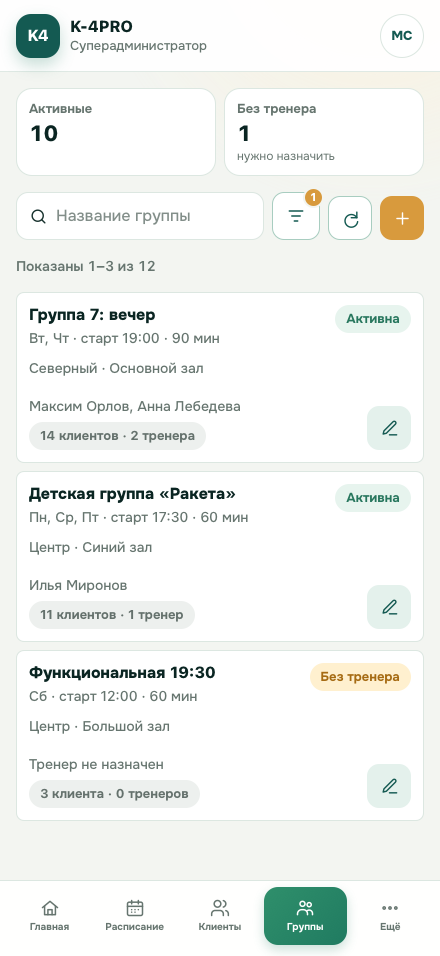
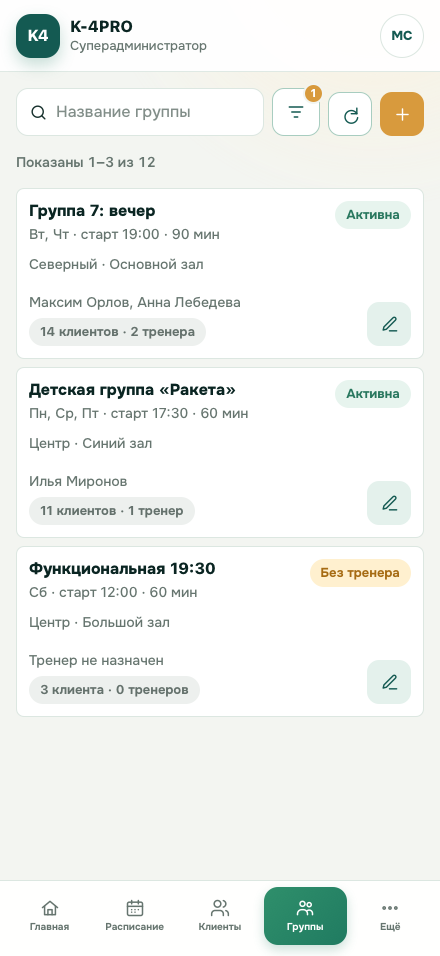
уточнение макетов

diff --git a/docs/ui-concept/index.html b/docs/ui-concept/index.html
@@ -388,12 +388,34 @@
       grid-template-columns: minmax(170px, 1.1fr) minmax(160px, .9fr) minmax(160px, .9fr) minmax(190px, 1fr) auto;
     }
 
+    .filter-bar.groups {
+      grid-template-columns: minmax(220px, 1.3fr) repeat(3, minmax(130px, .7fr)) auto;
+    }
+
+    .filter-actions {
+      display: flex;
+      justify-content: flex-end;
+      gap: 10px;
+    }
+
     .field label {
       display: block;
       margin: 0 0 5px;
       color: var(--text);
       font-size: 12px;
       font-weight: 850;
+    }
+
+    .sr-only {
+      position: absolute !important;
+      width: 1px !important;
+      height: 1px !important;
+      padding: 0 !important;
+      margin: -1px !important;
+      overflow: hidden !important;
+      clip: rect(0, 0, 0, 0) !important;
+      white-space: nowrap !important;
+      border: 0 !important;
     }
 
     .input {
@@ -662,6 +684,7 @@
       .summary-strip,
       .filter-bar,
       .filter-bar.audit,
+      .filter-bar.groups,
       .clients-layout,
       .entity-row,
       .entity-row.roster,
@@ -857,31 +880,18 @@
       <section class="mock-section" id="groups">
         <div class="mock-label">
           <h2>Группы</h2>
-          <span>Registry вместо вертикальных metric cards</span>
+          <span>Компактный registry без summary widgets</span>
         </div>
         <div class="screen">
           <div class="screen-body">
-            <section class="intro">
-              <div>
-                <div class="eyebrows"><span class="chip">Группы и расписание</span></div>
-                <h3>Группы и назначение тренеров</h3>
-                <p>Расписание, состав тренеров, загрузка группы и быстрый переход к редактированию.</p>
-              </div>
-              <div class="actions"><span class="button">Обновить</span><span class="button accent">Создать группу</span></div>
-            </section>
-            <div class="summary-strip">
-              <div class="stat-card"><div class="label">Всего</div><div class="value">12</div><div class="hint">групп</div></div>
-              <div class="stat-card"><div class="label">Активные</div><div class="value">10</div><div class="hint">в расписании</div></div>
-              <div class="stat-card"><div class="label">Без тренера</div><div class="value">1</div><div class="hint">назначить</div></div>
-              <div class="stat-card"><div class="label">Перегружены</div><div class="value">2</div><div class="hint">16+ клиентов</div></div>
-            </div>
+            <h1 class="sr-only">Группы</h1>
             <section class="surface">
-              <div class="filter-bar">
-                <div class="field"><label>Поиск</label><div class="input">Название группы</div></div>
+              <div class="filter-bar groups">
+                <div class="field"><label class="sr-only">Найти группу</label><div class="input">Название группы</div></div>
                 <div class="field"><label>Статус</label><div class="input">Активные</div></div>
                 <div class="field"><label>Тренер</label><div class="input">Все тренеры</div></div>
                 <div class="field"><label>День</label><div class="input">Любой</div></div>
-                <span class="button">Сбросить</span>
+                <div class="filter-actions"><button class="button" type="button">Обновить</button><button class="button accent" type="button">Создать группу</button></div>
               </div>
               <div class="row-list">
                 <div class="entity-row">

diff --git a/docs/ui-concept/task-090-iphone-17-pro-max/app.js b/docs/ui-concept/task-090-iphone-17-pro-max/app.js
@@ -562,7 +562,6 @@ const scenes = {
 
   'groups-list': () => shell(
     `<h1 class="sr-only">Группы</h1>
-    <div class="metrics">${metric('Активные', '10')}${metric('Без тренера', '1', 'нужно назначить')}</div>
     ${locator({
       placeholder: 'Название группы',
       count: 1,

diff --git a/backlog/tasks-ready/TASK-090-shared-mobile-ui-system.md b/backlog/tasks-ready/TASK-090-shared-mobile-ui-system.md
@@ -240,6 +240,12 @@ Theme может менять brand/action/nav/accent presentation, но не:
       первый рабочий control поднимается на освободившееся место.
 - [ ] Refresh/create actions перенесены в первый task toolbar без overflow;
       primary/frequent operations остаются видимыми и имеют accessible names.
+- [ ] `Группы` не показывают summary/stat widgets (`Всего`, `Активные`,
+      `Без тренера`, `Перегружены`) на mobile, tablet или desktop; первым
+      рабочим блоком является locator/filter toolbar.
+- [ ] Количество и проблемный статус групп передаются через range/status,
+      фильтры и соответствующие строки, а ширины `768`/`1440` не возвращают
+      удалённые widgets.
 - [ ] Detail/create/edit/auth и mobile routes внутри `Ещё` сохраняют visible
       title, если navigation не называет задачу однозначно; recovery state с
       конкретным state heading не дублирует route title.
@@ -269,6 +275,9 @@ Theme может менять brand/action/nav/accent presentation, но не:
 - [ ] `clients-browse`, `groups-list`, `schedule-ready` имеют visually-hidden
       level-one heading и не имеют дублирующего visible route title;
       `users-list`/`audit-list` сохраняют title на mobile при active `Ещё`.
+- [ ] `groups-list` не содержит summary/stat widget container на `390 x 844`,
+      `420 x 912`, `440 x 956`, `768 x 1024` и `1440 x 1200`; locator и
+      первые results поднимаются на освободившееся место.
 - [ ] `system-error-state`, `system-empty-first-run` и
       `system-empty-filtered` не дублируют `Клиенты`, когда active client nav и
       конкретный state heading уже дают полный контекст.

diff --git a/docs/ui-concept/README.md b/docs/ui-concept/README.md
@@ -127,14 +127,15 @@ List/table + preview rail на desktop
 
 ### Группы
 
-Заменить вертикальные metric cards на compact summary strip и добавить registry-фильтры.
+Использовать компактный registry без верхних metric/summary widgets. Состояние
+группы показывается в фильтрах и непосредственно в строке, где оно влияет на
+следующее действие.
 
 Структура:
 
 ```text
-Intro: Группы + Создать группу + refresh
-Summary strip: всего | активные | без тренера | перегруженные
-Filter bar: search | status | trainer
+Filter bar: search | status | trainer | day | refresh | create
+Range/status
 Rows: группа | расписание | тренеры | клиенты | статус | edit
 ```
 

diff --git a/.agents/skills/crm-mobile-first-ui/references/mobile-acceptance.md b/.agents/skills/crm-mobile-first-ui/references/mobile-acceptance.md
@@ -69,6 +69,11 @@ visual viewport.
   the first visible row is a locator, summary, filters, or task content.
 - Actions formerly owned by the hidden header remain visible in the first task
   toolbar when primary/frequent and retain accessible names.
+- Registry screens do not gain aggregate summary/stat widgets solely to fill
+  space; every retained widget changes a current decision and cannot be shown
+  more directly in locator, filter, range/status, or entity rows.
+- The Groups registry has no top summary/stat widgets at mobile, tablet, or
+  desktop widths; locator/filter toolbar and results use the released space.
 - Detail/create/edit/auth screens and routes under a generic `More`
   destination keep a visible title when navigation does not name the task;
   recovery states with specific headings do not duplicate an active route name.

diff --git a/.agents/skills/crm-mobile-first-ui/SKILL.md b/.agents/skills/crm-mobile-first-ui/SKILL.md
@@ -92,6 +92,10 @@ Rules:
   semantics;
 - move actions from a hidden list header into the first locator/toolbar/summary
   row without leaving a spacer or hiding primary/frequent operations;
+- do not add aggregate summary/stat widgets to a registry list unless each
+  value changes a current user decision and cannot be expressed more directly
+  in locator, filter, range/status, or entity rows; extra desktop width is not
+  a justification for widgets;
 - keep visible route titles for detail/create/edit/auth screens and routes
   whose active navigation is only a generic parent such as `More`; a recovery
   state with its own specific heading need not duplicate an active route name.

diff --git a/docs/ui-concept/task-090-iphone-17-pro-max/README.md b/docs/ui-concept/task-090-iphone-17-pro-max/README.md
@@ -35,6 +35,8 @@ The rendered screenshots follow the cross-device explanatory-copy rule in
   retaining a stable accessible name independent of placeholder;
 - top-level lists omit a visible route title when active persistent navigation
   already names the route; semantic `h1` and relocated actions remain;
+- the groups registry starts with its locator and does not render aggregate
+  summary/stat widgets on mobile, tablet or desktop;
 - required validation, recovery, constraint, security/legal and
   operational-state copy is placed next to the affected field/action/section.
 
